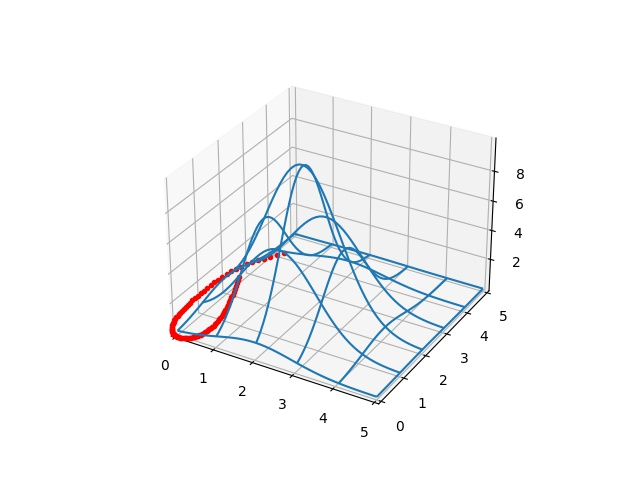
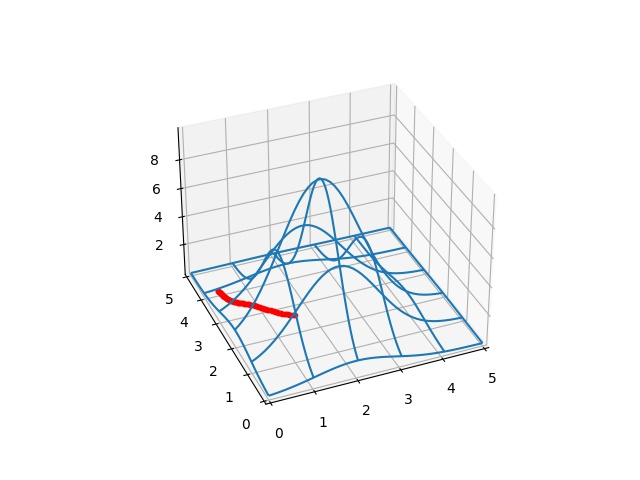
-

diff --git a/func_analysis/func_96_elev_path/func_96_elev_path.tex b/func_analysis/func_96_elev_path/func_96_elev_path.tex
@@ -185,6 +185,7 @@ bitiş değerlerini de bu kavrama ilintilendirdik), ve fonksiyon değişken olar
 katsayı değerlerini bu bedel üzerinden bulacak.
 
 \begin{minted}[fontsize=\footnotesize]{python}
+LARGE_FLOAT = 1e6
 pa0,pb0=(1.0,1.0)
 pex,pey=(0.3,4.0)
 ts = np.linspace(0,1,20)
@@ -197,27 +198,27 @@ def calcint_g1(pars):
     ys = []
     for tcurr in ts:
        sqrval = sqrdef.subs(argsubs).subs({t:tcurr})
-       if sqrval < 0: sqrval = 0    
        xval = xdef.subs(argsubs).subs({a0: pa0}).subs({t:tcurr})
        yval = ydef.subs(argsubs).subs({b0: pb0}).subs({t:tcurr})
        prod1 = gfunc1(float(xval),float(yval))*sqrval
        ys.append(prod1)
     W = np.trapz(ys,x=ts)
+    if W < 0: return LARGE_FLOAT
     return W
 \end{minted}
 
 
 \begin{minted}[fontsize=\footnotesize]{python}
-from scipy.optimize import minimize, Bounds, SR1, BFGS
+from scipy.optimize import minimize, Bounds
 
 LIM = 5.0
 pa1,pa2,pa3 = 0,0,0
 pb1,pb2,pb3 = 0,0,0
 x0 = pa1,pa2,pa3,pb1,pb2,pb3
-opts = {'maxiter': 20, 'verbose': 0}
+opts = {'maxiter': 40, 'verbose': 3}
+
 res = minimize (fun=calcint_g1,x0=x0,
-                method='trust-constr',
-                hess = BFGS (),
+                method='Nelder-Mead',
                 bounds=Bounds([-LIM, -LIM, -LIM, -LIM, -LIM, -LIM],
                               [LIM, LIM, LIM, LIM, LIM, LIM]),
                 options=opts)
@@ -225,7 +226,7 @@ print (res['x'])
 \end{minted}
 
 \begin{verbatim}
-[-0.35628684 -2.58099677 -3.26315201 -3.87505375  1.12278098  1.70215256]
+[-1.92645176  0.87238797  1.45300069  1.5909808   2.46135117  0.73187586]
 \end{verbatim}
 
 \begin{minted}[fontsize=\footnotesize]{python}
@@ -242,6 +243,14 @@ plt.savefig('calc_multi_40_elev_07.jpg')
 Fena değil, optimal bir yola benziyor, tepelerden kaçınıldı mümkün olduğu kadar
 düşük yükseklikli ve kısa yoldan gidildi.
 
+Üstteki optimizasyon kodunda dikkat edilirse bazı püf noktalar var, mesela eğer
+\verb!W! değeri sıfırdan küçük ise çok büyük bir değer donduruyoruz böylece o
+tür parametrelerden kaçınmiş oluyoruz, optimizasyonu diğer yönlere kanalize
+ediyoruz. Bu basit bir sağlama işlemi, tarif edilen türden entegral hesabı
+sıfırdan küçük olamaz, eğer öyle ise o tür sonucu veren parametrelerle
+ilgilenmiyoruz.
+
+
 Başka bir yükseklik fonksiyonunu kullanalım, iki tepe var şimdi, ve
 bitiş noktası farklı,
 
@@ -255,7 +264,7 @@ def gfunc2(x, y):
 \end{minted}
 
 \begin{minted}[fontsize=\footnotesize]{python}
-from scipy.optimize import minimize, Bounds, SR1, BFGS
+from scipy.optimize import minimize, Bounds
 
 pa0,pb0=(1.0,1.0)
 pex,pey=(4.0,2.0)
